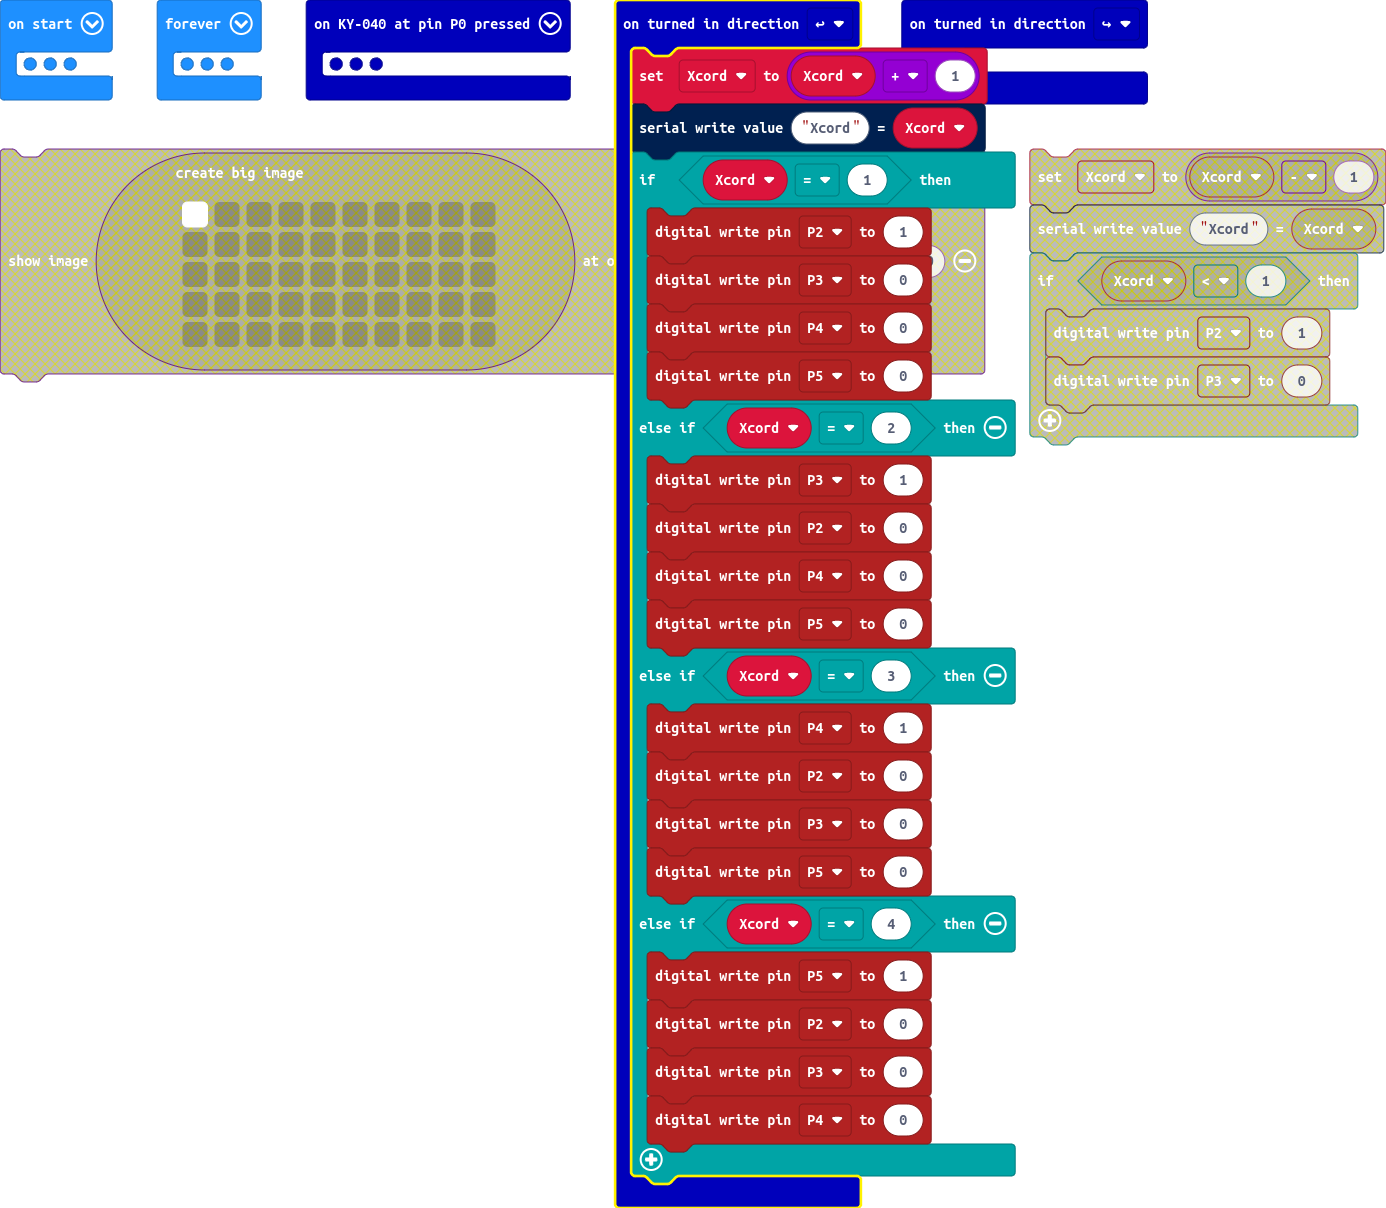
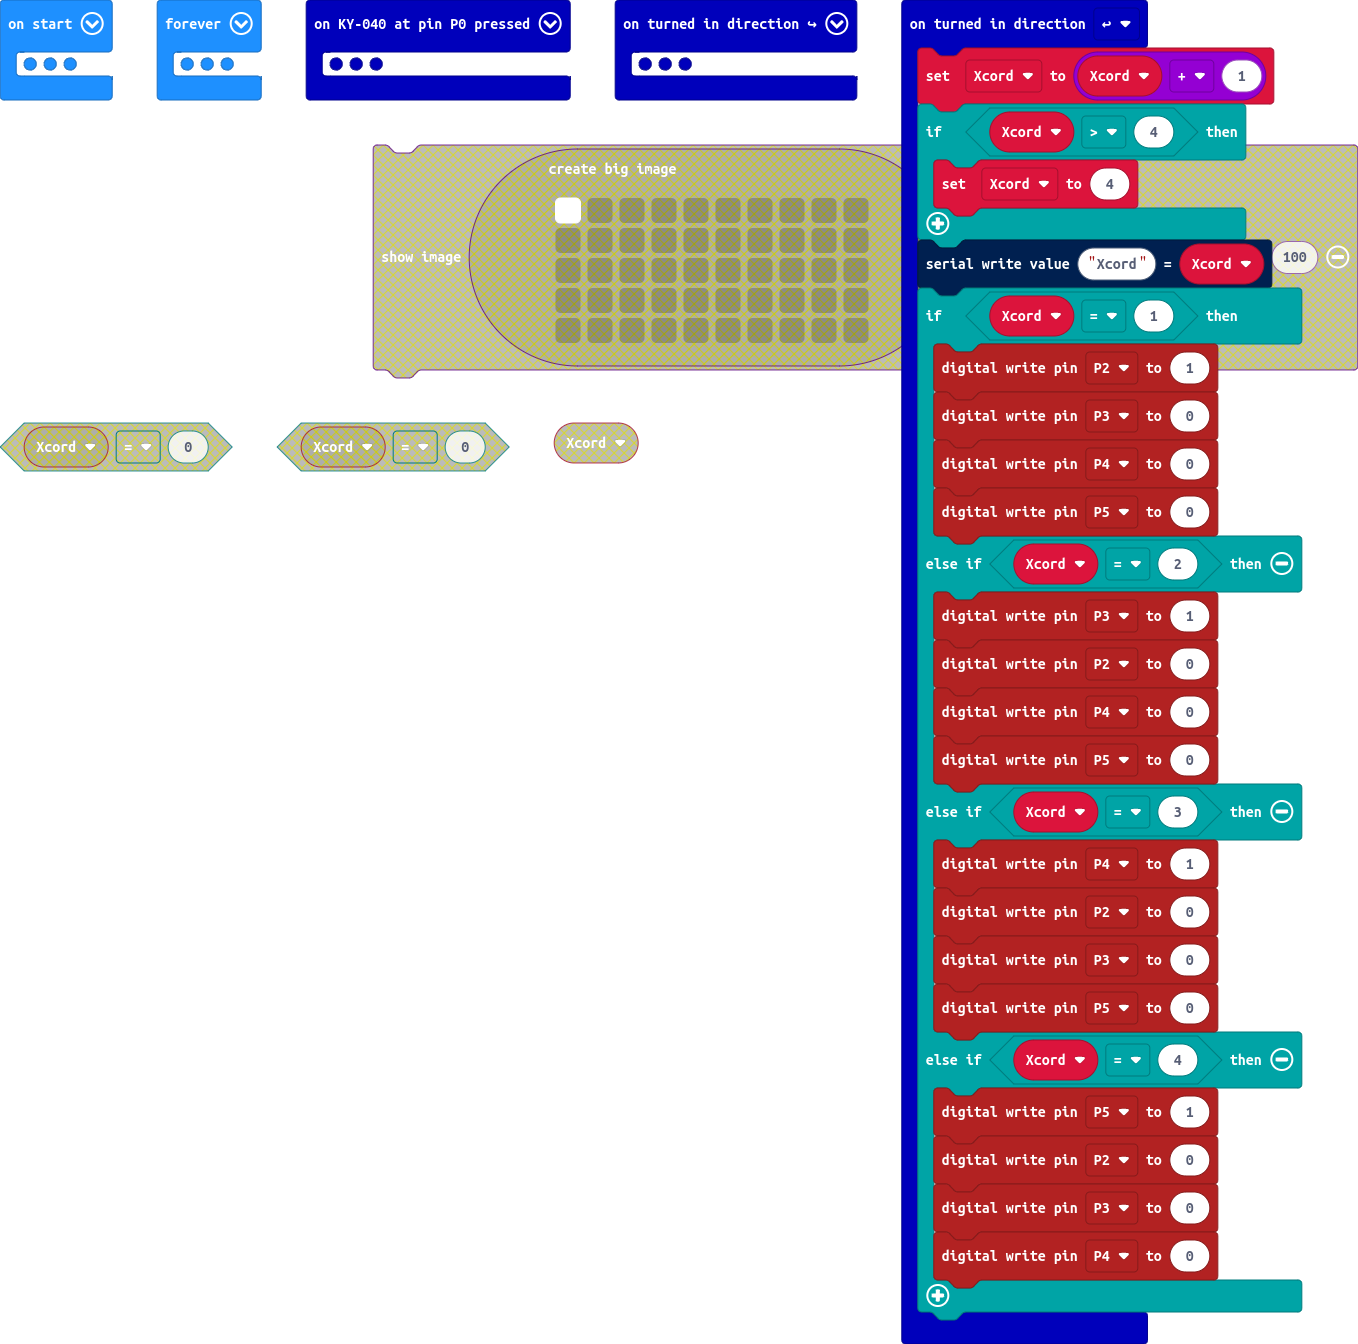
set xcord bounding to hard coded values equal to number of LED

diff --git a/main.ts b/main.ts
@@ -8,6 +8,9 @@ KY040.OnPinPressed(DigitalPin.P0, function () {
 })
 KY040.onTurned(direction.clockwise, function () {
     Xcord = Xcord + 1
+    if (Xcord > 4) {
+        Xcord = 4
+    }
     serial.writeValue("Xcord", Xcord)
     if (Xcord == 1) {
         pins.digitalWritePin(DigitalPin.P2, 1)
@@ -32,7 +35,37 @@ KY040.onTurned(direction.clockwise, function () {
     }
 })
 KY040.onTurned(direction.counterclockwise, function () {
-	
+    Xcord = Xcord - 1
+    if (Xcord < 1) {
+        Xcord = 0
+    }
+    serial.writeValue("Xcord", Xcord)
+    if (Xcord == 1) {
+        pins.digitalWritePin(DigitalPin.P2, 1)
+        pins.digitalWritePin(DigitalPin.P3, 0)
+        pins.digitalWritePin(DigitalPin.P4, 0)
+        pins.digitalWritePin(DigitalPin.P5, 0)
+    } else if (Xcord == 2) {
+        pins.digitalWritePin(DigitalPin.P3, 1)
+        pins.digitalWritePin(DigitalPin.P2, 0)
+        pins.digitalWritePin(DigitalPin.P4, 0)
+        pins.digitalWritePin(DigitalPin.P5, 0)
+    } else if (Xcord == 3) {
+        pins.digitalWritePin(DigitalPin.P4, 1)
+        pins.digitalWritePin(DigitalPin.P2, 0)
+        pins.digitalWritePin(DigitalPin.P3, 0)
+        pins.digitalWritePin(DigitalPin.P5, 0)
+    } else if (Xcord == 4) {
+        pins.digitalWritePin(DigitalPin.P5, 1)
+        pins.digitalWritePin(DigitalPin.P2, 0)
+        pins.digitalWritePin(DigitalPin.P3, 0)
+        pins.digitalWritePin(DigitalPin.P4, 0)
+    } else if (Xcord <= 0) {
+        pins.digitalWritePin(DigitalPin.P2, 0)
+        pins.digitalWritePin(DigitalPin.P3, 0)
+        pins.digitalWritePin(DigitalPin.P4, 0)
+        pins.digitalWritePin(DigitalPin.P5, 0)
+    }
 })
 let Xcord = 0
 led.enable(false)
